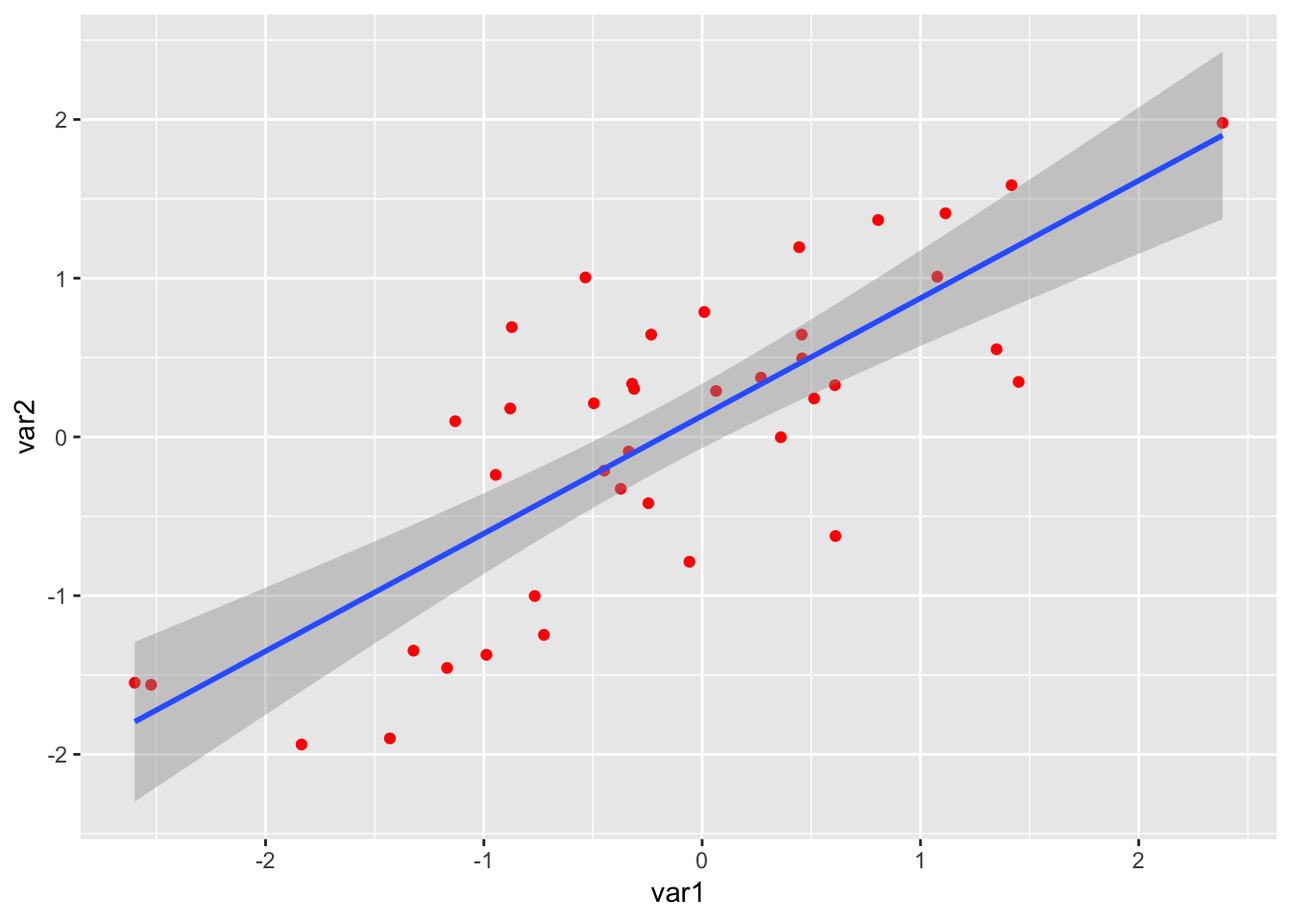
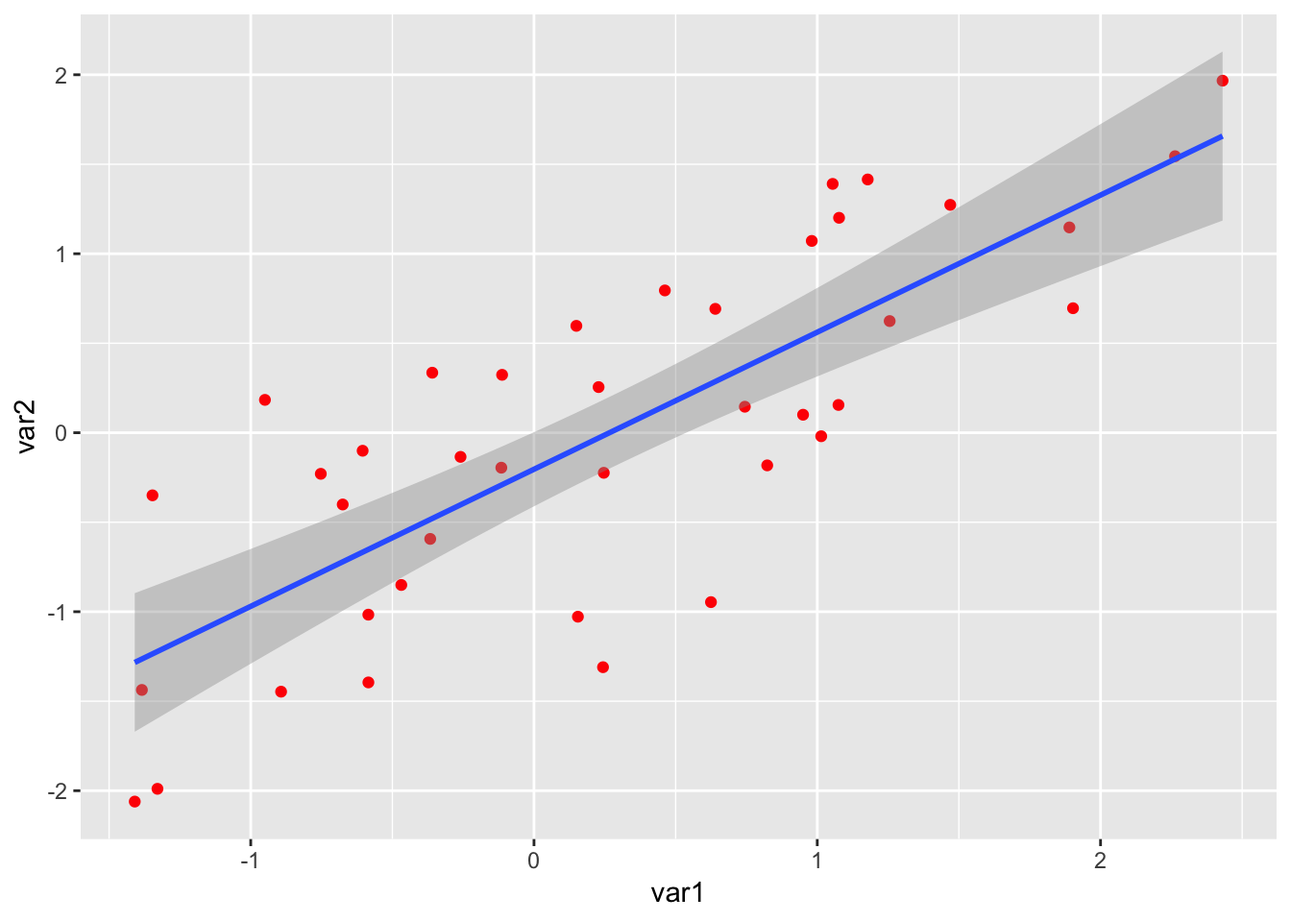
Update 28.10.19

diff --git a/10mixed.html b/10mixed.html
@@ -553,13 +553,13 @@ data_long &lt;- gather(data_short,key = &quot;face&quot;,value = &quot;rating&qu
   arrange(participant_ID,face)</code></pre>
 <div data-pagedtable="false">
 <script data-pagedtable-source type="application/json">
-{"columns":[{"label":["participant_ID"],"name":[1],"type":["int"],"align":["right"]},{"label":["face1"],"name":[2],"type":["int"],"align":["right"]},{"label":["face2"],"name":[3],"type":["int"],"align":["right"]},{"label":["face3"],"name":[4],"type":["int"],"align":["right"]},{"label":["face4"],"name":[5],"type":["int"],"align":["right"]},{"label":["face5"],"name":[6],"type":["int"],"align":["right"]},{"label":["face6"],"name":[7],"type":["int"],"align":["right"]},{"label":["face7"],"name":[8],"type":["int"],"align":["right"]},{"label":["face8"],"name":[9],"type":["int"],"align":["right"]},{"label":["face9"],"name":[10],"type":["int"],"align":["right"]}],"data":[{"1":"1","2":"1","3":"9","4":"5","5":"8","6":"1","7":"4","8":"8","9":"9","10":"8"},{"1":"2","2":"8","3":"8","4":"2","5":"1","6":"4","7":"4","8":"8","9":"9","10":"9"},{"1":"3","2":"3","3":"9","4":"9","5":"8","6":"7","7":"9","8":"4","9":"7","10":"6"},{"1":"4","2":"9","3":"7","4":"5","5":"7","6":"4","7":"2","8":"2","9":"9","10":"3"},{"1":"5","2":"4","3":"8","4":"8","5":"5","6":"8","7":"7","8":"6","9":"8","10":"6"},{"1":"6","2":"5","3":"1","4":"8","5":"7","6":"9","7":"1","8":"3","9":"9","10":"9"},{"1":"7","2":"5","3":"1","4":"9","5":"3","6":"9","7":"1","8":"6","9":"9","10":"9"},{"1":"8","2":"6","3":"4","4":"4","5":"7","6":"3","7":"8","8":"6","9":"8","10":"3"},{"1":"9","2":"8","3":"2","4":"9","5":"6","6":"4","7":"9","8":"5","9":"6","10":"9"},{"1":"10","2":"2","3":"4","4":"8","5":"8","6":"4","7":"4","8":"1","9":"2","10":"1"},{"1":"11","2":"4","3":"3","4":"5","5":"2","6":"2","7":"6","8":"4","9":"2","10":"4"},{"1":"12","2":"3","3":"9","4":"9","5":"7","6":"4","7":"2","8":"2","9":"3","10":"8"},{"1":"13","2":"3","3":"6","4":"7","5":"2","6":"5","7":"6","8":"9","9":"5","10":"4"},{"1":"14","2":"1","3":"3","4":"5","5":"1","6":"3","7":"5","8":"8","9":"3","10":"5"},{"1":"15","2":"9","3":"9","4":"9","5":"5","6":"3","7":"1","8":"6","9":"5","10":"8"},{"1":"16","2":"6","3":"1","4":"6","5":"8","6":"9","7":"6","8":"1","9":"3","10":"8"},{"1":"17","2":"4","3":"7","4":"3","5":"1","6":"6","7":"7","8":"6","9":"5","10":"8"},{"1":"18","2":"2","3":"8","4":"9","5":"2","6":"6","7":"2","8":"9","9":"4","10":"6"},{"1":"19","2":"6","3":"3","4":"9","5":"1","6":"4","7":"3","8":"4","9":"7","10":"4"},{"1":"20","2":"6","3":"4","4":"3","5":"3","6":"7","7":"8","8":"3","9":"1","10":"1"},{"1":"21","2":"7","3":"2","4":"5","5":"7","6":"3","7":"5","8":"2","9":"1","10":"3"},{"1":"22","2":"4","3":"9","4":"1","5":"2","6":"5","7":"1","8":"2","9":"7","10":"7"},{"1":"23","2":"6","3":"6","4":"5","5":"6","6":"2","7":"6","8":"5","9":"4","10":"3"},{"1":"24","2":"9","3":"7","4":"7","5":"4","6":"7","7":"5","8":"7","9":"8","10":"2"},{"1":"25","2":"6","3":"4","4":"6","5":"7","6":"2","7":"1","8":"3","9":"6","10":"3"},{"1":"26","2":"4","3":"1","4":"9","5":"9","6":"6","7":"1","8":"7","9":"3","10":"1"},{"1":"27","2":"2","3":"5","4":"4","5":"1","6":"8","7":"1","8":"2","9":"1","10":"1"},{"1":"28","2":"7","3":"7","4":"5","5":"9","6":"6","7":"3","8":"3","9":"7","10":"2"},{"1":"29","2":"3","3":"7","4":"5","5":"3","6":"9","7":"8","8":"1","9":"9","10":"6"},{"1":"30","2":"9","3":"3","4":"4","5":"4","6":"2","7":"9","8":"6","9":"3","10":"6"},{"1":"31","2":"1","3":"7","4":"5","5":"3","6":"2","7":"9","8":"4","9":"5","10":"1"},{"1":"32","2":"2","3":"8","4":"6","5":"7","6":"2","7":"6","8":"5","9":"3","10":"4"},{"1":"33","2":"3","3":"8","4":"2","5":"8","6":"6","7":"7","8":"8","9":"9","10":"7"},{"1":"34","2":"2","3":"6","4":"7","5":"1","6":"9","7":"2","8":"4","9":"1","10":"8"},{"1":"35","2":"4","3":"6","4":"1","5":"6","6":"9","7":"7","8":"6","9":"5","10":"7"},{"1":"36","2":"3","3":"3","4":"7","5":"1","6":"2","7":"2","8":"7","9":"4","10":"5"},{"1":"37","2":"3","3":"1","4":"8","5":"5","6":"7","7":"7","8":"6","9":"6","10":"5"},{"1":"38","2":"9","3":"5","4":"5","5":"6","6":"8","7":"4","8":"8","9":"2","10":"6"},{"1":"39","2":"6","3":"5","4":"7","5":"2","6":"2","7":"6","8":"1","9":"9","10":"2"},{"1":"40","2":"9","3":"3","4":"2","5":"1","6":"5","7":"3","8":"3","9":"3","10":"7"}],"options":{"columns":{"min":{},"max":[10]},"rows":{"min":[10],"max":[10]},"pages":{}}}
+{"columns":[{"label":["participant_ID"],"name":[1],"type":["int"],"align":["right"]},{"label":["face1"],"name":[2],"type":["int"],"align":["right"]},{"label":["face2"],"name":[3],"type":["int"],"align":["right"]},{"label":["face3"],"name":[4],"type":["int"],"align":["right"]},{"label":["face4"],"name":[5],"type":["int"],"align":["right"]},{"label":["face5"],"name":[6],"type":["int"],"align":["right"]},{"label":["face6"],"name":[7],"type":["int"],"align":["right"]},{"label":["face7"],"name":[8],"type":["int"],"align":["right"]},{"label":["face8"],"name":[9],"type":["int"],"align":["right"]},{"label":["face9"],"name":[10],"type":["int"],"align":["right"]}],"data":[{"1":"1","2":"5","3":"2","4":"4","5":"5","6":"3","7":"6","8":"6","9":"6","10":"7"},{"1":"2","2":"4","3":"5","4":"7","5":"5","6":"9","7":"7","8":"3","9":"8","10":"2"},{"1":"3","2":"6","3":"3","4":"6","5":"9","6":"6","7":"9","8":"4","9":"1","10":"9"},{"1":"4","2":"3","3":"3","4":"2","5":"4","6":"8","7":"5","8":"9","9":"9","10":"5"},{"1":"5","2":"1","3":"5","4":"5","5":"7","6":"9","7":"2","8":"8","9":"9","10":"3"},{"1":"6","2":"5","3":"9","4":"6","5":"2","6":"9","7":"2","8":"4","9":"2","10":"8"},{"1":"7","2":"6","3":"7","4":"5","5":"6","6":"7","7":"2","8":"6","9":"8","10":"7"},{"1":"8","2":"9","3":"4","4":"4","5":"3","6":"6","7":"8","8":"8","9":"1","10":"7"},{"1":"9","2":"4","3":"5","4":"3","5":"4","6":"8","7":"3","8":"4","9":"4","10":"3"},{"1":"10","2":"8","3":"5","4":"2","5":"9","6":"1","7":"4","8":"3","9":"7","10":"1"},{"1":"11","2":"9","3":"7","4":"9","5":"5","6":"5","7":"8","8":"9","9":"5","10":"4"},{"1":"12","2":"5","3":"5","4":"9","5":"7","6":"7","7":"6","8":"4","9":"8","10":"6"},{"1":"13","2":"5","3":"2","4":"2","5":"9","6":"5","7":"2","8":"3","9":"6","10":"2"},{"1":"14","2":"1","3":"2","4":"3","5":"3","6":"3","7":"9","8":"3","9":"6","10":"1"},{"1":"15","2":"2","3":"2","4":"5","5":"7","6":"5","7":"2","8":"1","9":"7","10":"2"},{"1":"16","2":"8","3":"9","4":"1","5":"2","6":"8","7":"5","8":"1","9":"9","10":"3"},{"1":"17","2":"1","3":"2","4":"3","5":"6","6":"8","7":"9","8":"7","9":"2","10":"2"},{"1":"18","2":"3","3":"7","4":"7","5":"4","6":"9","7":"8","8":"7","9":"9","10":"5"},{"1":"19","2":"6","3":"1","4":"7","5":"6","6":"4","7":"7","8":"7","9":"6","10":"5"},{"1":"20","2":"6","3":"3","4":"4","5":"7","6":"5","7":"1","8":"8","9":"8","10":"9"},{"1":"21","2":"5","3":"8","4":"4","5":"3","6":"7","7":"8","8":"3","9":"1","10":"4"},{"1":"22","2":"5","3":"4","4":"7","5":"8","6":"6","7":"2","8":"5","9":"6","10":"9"},{"1":"23","2":"3","3":"1","4":"6","5":"8","6":"5","7":"8","8":"6","9":"4","10":"3"},{"1":"24","2":"2","3":"3","4":"3","5":"8","6":"7","7":"8","8":"2","9":"9","10":"4"},{"1":"25","2":"7","3":"6","4":"7","5":"1","6":"3","7":"1","8":"7","9":"1","10":"8"},{"1":"26","2":"6","3":"8","4":"1","5":"2","6":"5","7":"6","8":"8","9":"5","10":"7"},{"1":"27","2":"4","3":"7","4":"7","5":"1","6":"1","7":"2","8":"5","9":"6","10":"4"},{"1":"28","2":"6","3":"6","4":"6","5":"4","6":"5","7":"7","8":"8","9":"7","10":"7"},{"1":"29","2":"2","3":"1","4":"8","5":"2","6":"5","7":"9","8":"6","9":"1","10":"2"},{"1":"30","2":"4","3":"5","4":"1","5":"4","6":"4","7":"5","8":"6","9":"7","10":"3"},{"1":"31","2":"9","3":"8","4":"5","5":"1","6":"9","7":"7","8":"1","9":"3","10":"3"},{"1":"32","2":"8","3":"2","4":"9","5":"2","6":"2","7":"3","8":"5","9":"6","10":"8"},{"1":"33","2":"8","3":"5","4":"8","5":"3","6":"9","7":"7","8":"8","9":"8","10":"7"},{"1":"34","2":"6","3":"7","4":"3","5":"5","6":"5","7":"7","8":"8","9":"9","10":"5"},{"1":"35","2":"2","3":"3","4":"9","5":"9","6":"4","7":"9","8":"7","9":"5","10":"3"},{"1":"36","2":"1","3":"3","4":"1","5":"2","6":"6","7":"1","8":"7","9":"6","10":"2"},{"1":"37","2":"9","3":"4","4":"4","5":"6","6":"4","7":"8","8":"5","9":"6","10":"2"},{"1":"38","2":"2","3":"5","4":"5","5":"2","6":"3","7":"2","8":"4","9":"2","10":"9"},{"1":"39","2":"4","3":"5","4":"2","5":"8","6":"1","7":"3","8":"1","9":"3","10":"3"},{"1":"40","2":"3","3":"4","4":"1","5":"5","6":"8","7":"3","8":"2","9":"1","10":"9"}],"options":{"columns":{"min":{},"max":[10]},"rows":{"min":[10],"max":[10]},"pages":{}}}
   </script>
 </div>
 <p>However, to conduct an mixed effects model, we require each row to represent one observation. In this instance, one observation is one rating made by one participant about one face. Therefore, data from one participant would be separated into 9 rows, (one for each rating they gave), and look something like this:</p>
 <div data-pagedtable="false">
 <script data-pagedtable-source type="application/json">
-{"columns":[{"label":["participant_ID"],"name":[1],"type":["int"],"align":["right"]},{"label":["face"],"name":[2],"type":["chr"],"align":["left"]},{"label":["rating"],"name":[3],"type":["int"],"align":["right"]}],"data":[{"1":"1","2":"face1","3":"1"},{"1":"1","2":"face2","3":"9"},{"1":"1","2":"face3","3":"5"},{"1":"1","2":"face4","3":"8"},{"1":"1","2":"face5","3":"1"},{"1":"1","2":"face6","3":"4"},{"1":"1","2":"face7","3":"8"},{"1":"1","2":"face8","3":"9"},{"1":"1","2":"face9","3":"8"},{"1":"2","2":"face1","3":"8"},{"1":"2","2":"face2","3":"8"},{"1":"2","2":"face3","3":"2"},{"1":"2","2":"face4","3":"1"},{"1":"2","2":"face5","3":"4"},{"1":"2","2":"face6","3":"4"},{"1":"2","2":"face7","3":"8"},{"1":"2","2":"face8","3":"9"},{"1":"2","2":"face9","3":"9"},{"1":"3","2":"face1","3":"3"},{"1":"3","2":"face2","3":"9"},{"1":"3","2":"face3","3":"9"},{"1":"3","2":"face4","3":"8"},{"1":"3","2":"face5","3":"7"},{"1":"3","2":"face6","3":"9"},{"1":"3","2":"face7","3":"4"},{"1":"3","2":"face8","3":"7"},{"1":"3","2":"face9","3":"6"},{"1":"4","2":"face1","3":"9"},{"1":"4","2":"face2","3":"7"},{"1":"4","2":"face3","3":"5"},{"1":"4","2":"face4","3":"7"},{"1":"4","2":"face5","3":"4"},{"1":"4","2":"face6","3":"2"},{"1":"4","2":"face7","3":"2"},{"1":"4","2":"face8","3":"9"},{"1":"4","2":"face9","3":"3"},{"1":"5","2":"face1","3":"4"},{"1":"5","2":"face2","3":"8"},{"1":"5","2":"face3","3":"8"},{"1":"5","2":"face4","3":"5"},{"1":"5","2":"face5","3":"8"},{"1":"5","2":"face6","3":"7"},{"1":"5","2":"face7","3":"6"},{"1":"5","2":"face8","3":"8"},{"1":"5","2":"face9","3":"6"},{"1":"6","2":"face1","3":"5"},{"1":"6","2":"face2","3":"1"},{"1":"6","2":"face3","3":"8"},{"1":"6","2":"face4","3":"7"},{"1":"6","2":"face5","3":"9"},{"1":"6","2":"face6","3":"1"},{"1":"6","2":"face7","3":"3"},{"1":"6","2":"face8","3":"9"},{"1":"6","2":"face9","3":"9"},{"1":"7","2":"face1","3":"5"},{"1":"7","2":"face2","3":"1"},{"1":"7","2":"face3","3":"9"},{"1":"7","2":"face4","3":"3"},{"1":"7","2":"face5","3":"9"},{"1":"7","2":"face6","3":"1"},{"1":"7","2":"face7","3":"6"},{"1":"7","2":"face8","3":"9"},{"1":"7","2":"face9","3":"9"},{"1":"8","2":"face1","3":"6"},{"1":"8","2":"face2","3":"4"},{"1":"8","2":"face3","3":"4"},{"1":"8","2":"face4","3":"7"},{"1":"8","2":"face5","3":"3"},{"1":"8","2":"face6","3":"8"},{"1":"8","2":"face7","3":"6"},{"1":"8","2":"face8","3":"8"},{"1":"8","2":"face9","3":"3"},{"1":"9","2":"face1","3":"8"},{"1":"9","2":"face2","3":"2"},{"1":"9","2":"face3","3":"9"},{"1":"9","2":"face4","3":"6"},{"1":"9","2":"face5","3":"4"},{"1":"9","2":"face6","3":"9"},{"1":"9","2":"face7","3":"5"},{"1":"9","2":"face8","3":"6"},{"1":"9","2":"face9","3":"9"},{"1":"10","2":"face1","3":"2"},{"1":"10","2":"face2","3":"4"},{"1":"10","2":"face3","3":"8"},{"1":"10","2":"face4","3":"8"},{"1":"10","2":"face5","3":"4"},{"1":"10","2":"face6","3":"4"},{"1":"10","2":"face7","3":"1"},{"1":"10","2":"face8","3":"2"},{"1":"10","2":"face9","3":"1"},{"1":"11","2":"face1","3":"4"},{"1":"11","2":"face2","3":"3"},{"1":"11","2":"face3","3":"5"},{"1":"11","2":"face4","3":"2"},{"1":"11","2":"face5","3":"2"},{"1":"11","2":"face6","3":"6"},{"1":"11","2":"face7","3":"4"},{"1":"11","2":"face8","3":"2"},{"1":"11","2":"face9","3":"4"},{"1":"12","2":"face1","3":"3"},{"1":"12","2":"face2","3":"9"},{"1":"12","2":"face3","3":"9"},{"1":"12","2":"face4","3":"7"},{"1":"12","2":"face5","3":"4"},{"1":"12","2":"face6","3":"2"},{"1":"12","2":"face7","3":"2"},{"1":"12","2":"face8","3":"3"},{"1":"12","2":"face9","3":"8"},{"1":"13","2":"face1","3":"3"},{"1":"13","2":"face2","3":"6"},{"1":"13","2":"face3","3":"7"},{"1":"13","2":"face4","3":"2"},{"1":"13","2":"face5","3":"5"},{"1":"13","2":"face6","3":"6"},{"1":"13","2":"face7","3":"9"},{"1":"13","2":"face8","3":"5"},{"1":"13","2":"face9","3":"4"},{"1":"14","2":"face1","3":"1"},{"1":"14","2":"face2","3":"3"},{"1":"14","2":"face3","3":"5"},{"1":"14","2":"face4","3":"1"},{"1":"14","2":"face5","3":"3"},{"1":"14","2":"face6","3":"5"},{"1":"14","2":"face7","3":"8"},{"1":"14","2":"face8","3":"3"},{"1":"14","2":"face9","3":"5"},{"1":"15","2":"face1","3":"9"},{"1":"15","2":"face2","3":"9"},{"1":"15","2":"face3","3":"9"},{"1":"15","2":"face4","3":"5"},{"1":"15","2":"face5","3":"3"},{"1":"15","2":"face6","3":"1"},{"1":"15","2":"face7","3":"6"},{"1":"15","2":"face8","3":"5"},{"1":"15","2":"face9","3":"8"},{"1":"16","2":"face1","3":"6"},{"1":"16","2":"face2","3":"1"},{"1":"16","2":"face3","3":"6"},{"1":"16","2":"face4","3":"8"},{"1":"16","2":"face5","3":"9"},{"1":"16","2":"face6","3":"6"},{"1":"16","2":"face7","3":"1"},{"1":"16","2":"face8","3":"3"},{"1":"16","2":"face9","3":"8"},{"1":"17","2":"face1","3":"4"},{"1":"17","2":"face2","3":"7"},{"1":"17","2":"face3","3":"3"},{"1":"17","2":"face4","3":"1"},{"1":"17","2":"face5","3":"6"},{"1":"17","2":"face6","3":"7"},{"1":"17","2":"face7","3":"6"},{"1":"17","2":"face8","3":"5"},{"1":"17","2":"face9","3":"8"},{"1":"18","2":"face1","3":"2"},{"1":"18","2":"face2","3":"8"},{"1":"18","2":"face3","3":"9"},{"1":"18","2":"face4","3":"2"},{"1":"18","2":"face5","3":"6"},{"1":"18","2":"face6","3":"2"},{"1":"18","2":"face7","3":"9"},{"1":"18","2":"face8","3":"4"},{"1":"18","2":"face9","3":"6"},{"1":"19","2":"face1","3":"6"},{"1":"19","2":"face2","3":"3"},{"1":"19","2":"face3","3":"9"},{"1":"19","2":"face4","3":"1"},{"1":"19","2":"face5","3":"4"},{"1":"19","2":"face6","3":"3"},{"1":"19","2":"face7","3":"4"},{"1":"19","2":"face8","3":"7"},{"1":"19","2":"face9","3":"4"},{"1":"20","2":"face1","3":"6"},{"1":"20","2":"face2","3":"4"},{"1":"20","2":"face3","3":"3"},{"1":"20","2":"face4","3":"3"},{"1":"20","2":"face5","3":"7"},{"1":"20","2":"face6","3":"8"},{"1":"20","2":"face7","3":"3"},{"1":"20","2":"face8","3":"1"},{"1":"20","2":"face9","3":"1"},{"1":"21","2":"face1","3":"7"},{"1":"21","2":"face2","3":"2"},{"1":"21","2":"face3","3":"5"},{"1":"21","2":"face4","3":"7"},{"1":"21","2":"face5","3":"3"},{"1":"21","2":"face6","3":"5"},{"1":"21","2":"face7","3":"2"},{"1":"21","2":"face8","3":"1"},{"1":"21","2":"face9","3":"3"},{"1":"22","2":"face1","3":"4"},{"1":"22","2":"face2","3":"9"},{"1":"22","2":"face3","3":"1"},{"1":"22","2":"face4","3":"2"},{"1":"22","2":"face5","3":"5"},{"1":"22","2":"face6","3":"1"},{"1":"22","2":"face7","3":"2"},{"1":"22","2":"face8","3":"7"},{"1":"22","2":"face9","3":"7"},{"1":"23","2":"face1","3":"6"},{"1":"23","2":"face2","3":"6"},{"1":"23","2":"face3","3":"5"},{"1":"23","2":"face4","3":"6"},{"1":"23","2":"face5","3":"2"},{"1":"23","2":"face6","3":"6"},{"1":"23","2":"face7","3":"5"},{"1":"23","2":"face8","3":"4"},{"1":"23","2":"face9","3":"3"},{"1":"24","2":"face1","3":"9"},{"1":"24","2":"face2","3":"7"},{"1":"24","2":"face3","3":"7"},{"1":"24","2":"face4","3":"4"},{"1":"24","2":"face5","3":"7"},{"1":"24","2":"face6","3":"5"},{"1":"24","2":"face7","3":"7"},{"1":"24","2":"face8","3":"8"},{"1":"24","2":"face9","3":"2"},{"1":"25","2":"face1","3":"6"},{"1":"25","2":"face2","3":"4"},{"1":"25","2":"face3","3":"6"},{"1":"25","2":"face4","3":"7"},{"1":"25","2":"face5","3":"2"},{"1":"25","2":"face6","3":"1"},{"1":"25","2":"face7","3":"3"},{"1":"25","2":"face8","3":"6"},{"1":"25","2":"face9","3":"3"},{"1":"26","2":"face1","3":"4"},{"1":"26","2":"face2","3":"1"},{"1":"26","2":"face3","3":"9"},{"1":"26","2":"face4","3":"9"},{"1":"26","2":"face5","3":"6"},{"1":"26","2":"face6","3":"1"},{"1":"26","2":"face7","3":"7"},{"1":"26","2":"face8","3":"3"},{"1":"26","2":"face9","3":"1"},{"1":"27","2":"face1","3":"2"},{"1":"27","2":"face2","3":"5"},{"1":"27","2":"face3","3":"4"},{"1":"27","2":"face4","3":"1"},{"1":"27","2":"face5","3":"8"},{"1":"27","2":"face6","3":"1"},{"1":"27","2":"face7","3":"2"},{"1":"27","2":"face8","3":"1"},{"1":"27","2":"face9","3":"1"},{"1":"28","2":"face1","3":"7"},{"1":"28","2":"face2","3":"7"},{"1":"28","2":"face3","3":"5"},{"1":"28","2":"face4","3":"9"},{"1":"28","2":"face5","3":"6"},{"1":"28","2":"face6","3":"3"},{"1":"28","2":"face7","3":"3"},{"1":"28","2":"face8","3":"7"},{"1":"28","2":"face9","3":"2"},{"1":"29","2":"face1","3":"3"},{"1":"29","2":"face2","3":"7"},{"1":"29","2":"face3","3":"5"},{"1":"29","2":"face4","3":"3"},{"1":"29","2":"face5","3":"9"},{"1":"29","2":"face6","3":"8"},{"1":"29","2":"face7","3":"1"},{"1":"29","2":"face8","3":"9"},{"1":"29","2":"face9","3":"6"},{"1":"30","2":"face1","3":"9"},{"1":"30","2":"face2","3":"3"},{"1":"30","2":"face3","3":"4"},{"1":"30","2":"face4","3":"4"},{"1":"30","2":"face5","3":"2"},{"1":"30","2":"face6","3":"9"},{"1":"30","2":"face7","3":"6"},{"1":"30","2":"face8","3":"3"},{"1":"30","2":"face9","3":"6"},{"1":"31","2":"face1","3":"1"},{"1":"31","2":"face2","3":"7"},{"1":"31","2":"face3","3":"5"},{"1":"31","2":"face4","3":"3"},{"1":"31","2":"face5","3":"2"},{"1":"31","2":"face6","3":"9"},{"1":"31","2":"face7","3":"4"},{"1":"31","2":"face8","3":"5"},{"1":"31","2":"face9","3":"1"},{"1":"32","2":"face1","3":"2"},{"1":"32","2":"face2","3":"8"},{"1":"32","2":"face3","3":"6"},{"1":"32","2":"face4","3":"7"},{"1":"32","2":"face5","3":"2"},{"1":"32","2":"face6","3":"6"},{"1":"32","2":"face7","3":"5"},{"1":"32","2":"face8","3":"3"},{"1":"32","2":"face9","3":"4"},{"1":"33","2":"face1","3":"3"},{"1":"33","2":"face2","3":"8"},{"1":"33","2":"face3","3":"2"},{"1":"33","2":"face4","3":"8"},{"1":"33","2":"face5","3":"6"},{"1":"33","2":"face6","3":"7"},{"1":"33","2":"face7","3":"8"},{"1":"33","2":"face8","3":"9"},{"1":"33","2":"face9","3":"7"},{"1":"34","2":"face1","3":"2"},{"1":"34","2":"face2","3":"6"},{"1":"34","2":"face3","3":"7"},{"1":"34","2":"face4","3":"1"},{"1":"34","2":"face5","3":"9"},{"1":"34","2":"face6","3":"2"},{"1":"34","2":"face7","3":"4"},{"1":"34","2":"face8","3":"1"},{"1":"34","2":"face9","3":"8"},{"1":"35","2":"face1","3":"4"},{"1":"35","2":"face2","3":"6"},{"1":"35","2":"face3","3":"1"},{"1":"35","2":"face4","3":"6"},{"1":"35","2":"face5","3":"9"},{"1":"35","2":"face6","3":"7"},{"1":"35","2":"face7","3":"6"},{"1":"35","2":"face8","3":"5"},{"1":"35","2":"face9","3":"7"},{"1":"36","2":"face1","3":"3"},{"1":"36","2":"face2","3":"3"},{"1":"36","2":"face3","3":"7"},{"1":"36","2":"face4","3":"1"},{"1":"36","2":"face5","3":"2"},{"1":"36","2":"face6","3":"2"},{"1":"36","2":"face7","3":"7"},{"1":"36","2":"face8","3":"4"},{"1":"36","2":"face9","3":"5"},{"1":"37","2":"face1","3":"3"},{"1":"37","2":"face2","3":"1"},{"1":"37","2":"face3","3":"8"},{"1":"37","2":"face4","3":"5"},{"1":"37","2":"face5","3":"7"},{"1":"37","2":"face6","3":"7"},{"1":"37","2":"face7","3":"6"},{"1":"37","2":"face8","3":"6"},{"1":"37","2":"face9","3":"5"},{"1":"38","2":"face1","3":"9"},{"1":"38","2":"face2","3":"5"},{"1":"38","2":"face3","3":"5"},{"1":"38","2":"face4","3":"6"},{"1":"38","2":"face5","3":"8"},{"1":"38","2":"face6","3":"4"},{"1":"38","2":"face7","3":"8"},{"1":"38","2":"face8","3":"2"},{"1":"38","2":"face9","3":"6"},{"1":"39","2":"face1","3":"6"},{"1":"39","2":"face2","3":"5"},{"1":"39","2":"face3","3":"7"},{"1":"39","2":"face4","3":"2"},{"1":"39","2":"face5","3":"2"},{"1":"39","2":"face6","3":"6"},{"1":"39","2":"face7","3":"1"},{"1":"39","2":"face8","3":"9"},{"1":"39","2":"face9","3":"2"},{"1":"40","2":"face1","3":"9"},{"1":"40","2":"face2","3":"3"},{"1":"40","2":"face3","3":"2"},{"1":"40","2":"face4","3":"1"},{"1":"40","2":"face5","3":"5"},{"1":"40","2":"face6","3":"3"},{"1":"40","2":"face7","3":"3"},{"1":"40","2":"face8","3":"3"},{"1":"40","2":"face9","3":"7"}],"options":{"columns":{"min":{},"max":[10]},"rows":{"min":[10],"max":[10]},"pages":{}}}
+{"columns":[{"label":["participant_ID"],"name":[1],"type":["int"],"align":["right"]},{"label":["face"],"name":[2],"type":["chr"],"align":["left"]},{"label":["rating"],"name":[3],"type":["int"],"align":["right"]}],"data":[{"1":"1","2":"face1","3":"5"},{"1":"1","2":"face2","3":"2"},{"1":"1","2":"face3","3":"4"},{"1":"1","2":"face4","3":"5"},{"1":"1","2":"face5","3":"3"},{"1":"1","2":"face6","3":"6"},{"1":"1","2":"face7","3":"6"},{"1":"1","2":"face8","3":"6"},{"1":"1","2":"face9","3":"7"},{"1":"2","2":"face1","3":"4"},{"1":"2","2":"face2","3":"5"},{"1":"2","2":"face3","3":"7"},{"1":"2","2":"face4","3":"5"},{"1":"2","2":"face5","3":"9"},{"1":"2","2":"face6","3":"7"},{"1":"2","2":"face7","3":"3"},{"1":"2","2":"face8","3":"8"},{"1":"2","2":"face9","3":"2"},{"1":"3","2":"face1","3":"6"},{"1":"3","2":"face2","3":"3"},{"1":"3","2":"face3","3":"6"},{"1":"3","2":"face4","3":"9"},{"1":"3","2":"face5","3":"6"},{"1":"3","2":"face6","3":"9"},{"1":"3","2":"face7","3":"4"},{"1":"3","2":"face8","3":"1"},{"1":"3","2":"face9","3":"9"},{"1":"4","2":"face1","3":"3"},{"1":"4","2":"face2","3":"3"},{"1":"4","2":"face3","3":"2"},{"1":"4","2":"face4","3":"4"},{"1":"4","2":"face5","3":"8"},{"1":"4","2":"face6","3":"5"},{"1":"4","2":"face7","3":"9"},{"1":"4","2":"face8","3":"9"},{"1":"4","2":"face9","3":"5"},{"1":"5","2":"face1","3":"1"},{"1":"5","2":"face2","3":"5"},{"1":"5","2":"face3","3":"5"},{"1":"5","2":"face4","3":"7"},{"1":"5","2":"face5","3":"9"},{"1":"5","2":"face6","3":"2"},{"1":"5","2":"face7","3":"8"},{"1":"5","2":"face8","3":"9"},{"1":"5","2":"face9","3":"3"},{"1":"6","2":"face1","3":"5"},{"1":"6","2":"face2","3":"9"},{"1":"6","2":"face3","3":"6"},{"1":"6","2":"face4","3":"2"},{"1":"6","2":"face5","3":"9"},{"1":"6","2":"face6","3":"2"},{"1":"6","2":"face7","3":"4"},{"1":"6","2":"face8","3":"2"},{"1":"6","2":"face9","3":"8"},{"1":"7","2":"face1","3":"6"},{"1":"7","2":"face2","3":"7"},{"1":"7","2":"face3","3":"5"},{"1":"7","2":"face4","3":"6"},{"1":"7","2":"face5","3":"7"},{"1":"7","2":"face6","3":"2"},{"1":"7","2":"face7","3":"6"},{"1":"7","2":"face8","3":"8"},{"1":"7","2":"face9","3":"7"},{"1":"8","2":"face1","3":"9"},{"1":"8","2":"face2","3":"4"},{"1":"8","2":"face3","3":"4"},{"1":"8","2":"face4","3":"3"},{"1":"8","2":"face5","3":"6"},{"1":"8","2":"face6","3":"8"},{"1":"8","2":"face7","3":"8"},{"1":"8","2":"face8","3":"1"},{"1":"8","2":"face9","3":"7"},{"1":"9","2":"face1","3":"4"},{"1":"9","2":"face2","3":"5"},{"1":"9","2":"face3","3":"3"},{"1":"9","2":"face4","3":"4"},{"1":"9","2":"face5","3":"8"},{"1":"9","2":"face6","3":"3"},{"1":"9","2":"face7","3":"4"},{"1":"9","2":"face8","3":"4"},{"1":"9","2":"face9","3":"3"},{"1":"10","2":"face1","3":"8"},{"1":"10","2":"face2","3":"5"},{"1":"10","2":"face3","3":"2"},{"1":"10","2":"face4","3":"9"},{"1":"10","2":"face5","3":"1"},{"1":"10","2":"face6","3":"4"},{"1":"10","2":"face7","3":"3"},{"1":"10","2":"face8","3":"7"},{"1":"10","2":"face9","3":"1"},{"1":"11","2":"face1","3":"9"},{"1":"11","2":"face2","3":"7"},{"1":"11","2":"face3","3":"9"},{"1":"11","2":"face4","3":"5"},{"1":"11","2":"face5","3":"5"},{"1":"11","2":"face6","3":"8"},{"1":"11","2":"face7","3":"9"},{"1":"11","2":"face8","3":"5"},{"1":"11","2":"face9","3":"4"},{"1":"12","2":"face1","3":"5"},{"1":"12","2":"face2","3":"5"},{"1":"12","2":"face3","3":"9"},{"1":"12","2":"face4","3":"7"},{"1":"12","2":"face5","3":"7"},{"1":"12","2":"face6","3":"6"},{"1":"12","2":"face7","3":"4"},{"1":"12","2":"face8","3":"8"},{"1":"12","2":"face9","3":"6"},{"1":"13","2":"face1","3":"5"},{"1":"13","2":"face2","3":"2"},{"1":"13","2":"face3","3":"2"},{"1":"13","2":"face4","3":"9"},{"1":"13","2":"face5","3":"5"},{"1":"13","2":"face6","3":"2"},{"1":"13","2":"face7","3":"3"},{"1":"13","2":"face8","3":"6"},{"1":"13","2":"face9","3":"2"},{"1":"14","2":"face1","3":"1"},{"1":"14","2":"face2","3":"2"},{"1":"14","2":"face3","3":"3"},{"1":"14","2":"face4","3":"3"},{"1":"14","2":"face5","3":"3"},{"1":"14","2":"face6","3":"9"},{"1":"14","2":"face7","3":"3"},{"1":"14","2":"face8","3":"6"},{"1":"14","2":"face9","3":"1"},{"1":"15","2":"face1","3":"2"},{"1":"15","2":"face2","3":"2"},{"1":"15","2":"face3","3":"5"},{"1":"15","2":"face4","3":"7"},{"1":"15","2":"face5","3":"5"},{"1":"15","2":"face6","3":"2"},{"1":"15","2":"face7","3":"1"},{"1":"15","2":"face8","3":"7"},{"1":"15","2":"face9","3":"2"},{"1":"16","2":"face1","3":"8"},{"1":"16","2":"face2","3":"9"},{"1":"16","2":"face3","3":"1"},{"1":"16","2":"face4","3":"2"},{"1":"16","2":"face5","3":"8"},{"1":"16","2":"face6","3":"5"},{"1":"16","2":"face7","3":"1"},{"1":"16","2":"face8","3":"9"},{"1":"16","2":"face9","3":"3"},{"1":"17","2":"face1","3":"1"},{"1":"17","2":"face2","3":"2"},{"1":"17","2":"face3","3":"3"},{"1":"17","2":"face4","3":"6"},{"1":"17","2":"face5","3":"8"},{"1":"17","2":"face6","3":"9"},{"1":"17","2":"face7","3":"7"},{"1":"17","2":"face8","3":"2"},{"1":"17","2":"face9","3":"2"},{"1":"18","2":"face1","3":"3"},{"1":"18","2":"face2","3":"7"},{"1":"18","2":"face3","3":"7"},{"1":"18","2":"face4","3":"4"},{"1":"18","2":"face5","3":"9"},{"1":"18","2":"face6","3":"8"},{"1":"18","2":"face7","3":"7"},{"1":"18","2":"face8","3":"9"},{"1":"18","2":"face9","3":"5"},{"1":"19","2":"face1","3":"6"},{"1":"19","2":"face2","3":"1"},{"1":"19","2":"face3","3":"7"},{"1":"19","2":"face4","3":"6"},{"1":"19","2":"face5","3":"4"},{"1":"19","2":"face6","3":"7"},{"1":"19","2":"face7","3":"7"},{"1":"19","2":"face8","3":"6"},{"1":"19","2":"face9","3":"5"},{"1":"20","2":"face1","3":"6"},{"1":"20","2":"face2","3":"3"},{"1":"20","2":"face3","3":"4"},{"1":"20","2":"face4","3":"7"},{"1":"20","2":"face5","3":"5"},{"1":"20","2":"face6","3":"1"},{"1":"20","2":"face7","3":"8"},{"1":"20","2":"face8","3":"8"},{"1":"20","2":"face9","3":"9"},{"1":"21","2":"face1","3":"5"},{"1":"21","2":"face2","3":"8"},{"1":"21","2":"face3","3":"4"},{"1":"21","2":"face4","3":"3"},{"1":"21","2":"face5","3":"7"},{"1":"21","2":"face6","3":"8"},{"1":"21","2":"face7","3":"3"},{"1":"21","2":"face8","3":"1"},{"1":"21","2":"face9","3":"4"},{"1":"22","2":"face1","3":"5"},{"1":"22","2":"face2","3":"4"},{"1":"22","2":"face3","3":"7"},{"1":"22","2":"face4","3":"8"},{"1":"22","2":"face5","3":"6"},{"1":"22","2":"face6","3":"2"},{"1":"22","2":"face7","3":"5"},{"1":"22","2":"face8","3":"6"},{"1":"22","2":"face9","3":"9"},{"1":"23","2":"face1","3":"3"},{"1":"23","2":"face2","3":"1"},{"1":"23","2":"face3","3":"6"},{"1":"23","2":"face4","3":"8"},{"1":"23","2":"face5","3":"5"},{"1":"23","2":"face6","3":"8"},{"1":"23","2":"face7","3":"6"},{"1":"23","2":"face8","3":"4"},{"1":"23","2":"face9","3":"3"},{"1":"24","2":"face1","3":"2"},{"1":"24","2":"face2","3":"3"},{"1":"24","2":"face3","3":"3"},{"1":"24","2":"face4","3":"8"},{"1":"24","2":"face5","3":"7"},{"1":"24","2":"face6","3":"8"},{"1":"24","2":"face7","3":"2"},{"1":"24","2":"face8","3":"9"},{"1":"24","2":"face9","3":"4"},{"1":"25","2":"face1","3":"7"},{"1":"25","2":"face2","3":"6"},{"1":"25","2":"face3","3":"7"},{"1":"25","2":"face4","3":"1"},{"1":"25","2":"face5","3":"3"},{"1":"25","2":"face6","3":"1"},{"1":"25","2":"face7","3":"7"},{"1":"25","2":"face8","3":"1"},{"1":"25","2":"face9","3":"8"},{"1":"26","2":"face1","3":"6"},{"1":"26","2":"face2","3":"8"},{"1":"26","2":"face3","3":"1"},{"1":"26","2":"face4","3":"2"},{"1":"26","2":"face5","3":"5"},{"1":"26","2":"face6","3":"6"},{"1":"26","2":"face7","3":"8"},{"1":"26","2":"face8","3":"5"},{"1":"26","2":"face9","3":"7"},{"1":"27","2":"face1","3":"4"},{"1":"27","2":"face2","3":"7"},{"1":"27","2":"face3","3":"7"},{"1":"27","2":"face4","3":"1"},{"1":"27","2":"face5","3":"1"},{"1":"27","2":"face6","3":"2"},{"1":"27","2":"face7","3":"5"},{"1":"27","2":"face8","3":"6"},{"1":"27","2":"face9","3":"4"},{"1":"28","2":"face1","3":"6"},{"1":"28","2":"face2","3":"6"},{"1":"28","2":"face3","3":"6"},{"1":"28","2":"face4","3":"4"},{"1":"28","2":"face5","3":"5"},{"1":"28","2":"face6","3":"7"},{"1":"28","2":"face7","3":"8"},{"1":"28","2":"face8","3":"7"},{"1":"28","2":"face9","3":"7"},{"1":"29","2":"face1","3":"2"},{"1":"29","2":"face2","3":"1"},{"1":"29","2":"face3","3":"8"},{"1":"29","2":"face4","3":"2"},{"1":"29","2":"face5","3":"5"},{"1":"29","2":"face6","3":"9"},{"1":"29","2":"face7","3":"6"},{"1":"29","2":"face8","3":"1"},{"1":"29","2":"face9","3":"2"},{"1":"30","2":"face1","3":"4"},{"1":"30","2":"face2","3":"5"},{"1":"30","2":"face3","3":"1"},{"1":"30","2":"face4","3":"4"},{"1":"30","2":"face5","3":"4"},{"1":"30","2":"face6","3":"5"},{"1":"30","2":"face7","3":"6"},{"1":"30","2":"face8","3":"7"},{"1":"30","2":"face9","3":"3"},{"1":"31","2":"face1","3":"9"},{"1":"31","2":"face2","3":"8"},{"1":"31","2":"face3","3":"5"},{"1":"31","2":"face4","3":"1"},{"1":"31","2":"face5","3":"9"},{"1":"31","2":"face6","3":"7"},{"1":"31","2":"face7","3":"1"},{"1":"31","2":"face8","3":"3"},{"1":"31","2":"face9","3":"3"},{"1":"32","2":"face1","3":"8"},{"1":"32","2":"face2","3":"2"},{"1":"32","2":"face3","3":"9"},{"1":"32","2":"face4","3":"2"},{"1":"32","2":"face5","3":"2"},{"1":"32","2":"face6","3":"3"},{"1":"32","2":"face7","3":"5"},{"1":"32","2":"face8","3":"6"},{"1":"32","2":"face9","3":"8"},{"1":"33","2":"face1","3":"8"},{"1":"33","2":"face2","3":"5"},{"1":"33","2":"face3","3":"8"},{"1":"33","2":"face4","3":"3"},{"1":"33","2":"face5","3":"9"},{"1":"33","2":"face6","3":"7"},{"1":"33","2":"face7","3":"8"},{"1":"33","2":"face8","3":"8"},{"1":"33","2":"face9","3":"7"},{"1":"34","2":"face1","3":"6"},{"1":"34","2":"face2","3":"7"},{"1":"34","2":"face3","3":"3"},{"1":"34","2":"face4","3":"5"},{"1":"34","2":"face5","3":"5"},{"1":"34","2":"face6","3":"7"},{"1":"34","2":"face7","3":"8"},{"1":"34","2":"face8","3":"9"},{"1":"34","2":"face9","3":"5"},{"1":"35","2":"face1","3":"2"},{"1":"35","2":"face2","3":"3"},{"1":"35","2":"face3","3":"9"},{"1":"35","2":"face4","3":"9"},{"1":"35","2":"face5","3":"4"},{"1":"35","2":"face6","3":"9"},{"1":"35","2":"face7","3":"7"},{"1":"35","2":"face8","3":"5"},{"1":"35","2":"face9","3":"3"},{"1":"36","2":"face1","3":"1"},{"1":"36","2":"face2","3":"3"},{"1":"36","2":"face3","3":"1"},{"1":"36","2":"face4","3":"2"},{"1":"36","2":"face5","3":"6"},{"1":"36","2":"face6","3":"1"},{"1":"36","2":"face7","3":"7"},{"1":"36","2":"face8","3":"6"},{"1":"36","2":"face9","3":"2"},{"1":"37","2":"face1","3":"9"},{"1":"37","2":"face2","3":"4"},{"1":"37","2":"face3","3":"4"},{"1":"37","2":"face4","3":"6"},{"1":"37","2":"face5","3":"4"},{"1":"37","2":"face6","3":"8"},{"1":"37","2":"face7","3":"5"},{"1":"37","2":"face8","3":"6"},{"1":"37","2":"face9","3":"2"},{"1":"38","2":"face1","3":"2"},{"1":"38","2":"face2","3":"5"},{"1":"38","2":"face3","3":"5"},{"1":"38","2":"face4","3":"2"},{"1":"38","2":"face5","3":"3"},{"1":"38","2":"face6","3":"2"},{"1":"38","2":"face7","3":"4"},{"1":"38","2":"face8","3":"2"},{"1":"38","2":"face9","3":"9"},{"1":"39","2":"face1","3":"4"},{"1":"39","2":"face2","3":"5"},{"1":"39","2":"face3","3":"2"},{"1":"39","2":"face4","3":"8"},{"1":"39","2":"face5","3":"1"},{"1":"39","2":"face6","3":"3"},{"1":"39","2":"face7","3":"1"},{"1":"39","2":"face8","3":"3"},{"1":"39","2":"face9","3":"3"},{"1":"40","2":"face1","3":"3"},{"1":"40","2":"face2","3":"4"},{"1":"40","2":"face3","3":"1"},{"1":"40","2":"face4","3":"5"},{"1":"40","2":"face5","3":"8"},{"1":"40","2":"face6","3":"3"},{"1":"40","2":"face7","3":"2"},{"1":"40","2":"face8","3":"1"},{"1":"40","2":"face9","3":"9"}],"options":{"columns":{"min":{},"max":[10]},"rows":{"min":[10],"max":[10]},"pages":{}}}
   </script>
 </div>
 <p>In the examples above, we would call the format of the first data.frame the “short-form”, while the format for the second is “long-form”. To convert a dataframe from short-form to long-form and vice versa, we use the <code>gather()</code> and <code>spread()</code> functions respectively.</p>

diff --git a/1intro.html b/1intro.html
@@ -521,16 +521,16 @@ div.tocify {
 <pre><code>## [1] 2</code></pre>
 <p>Some functions can do quite complicated things. For example, the function <code>rnorm()</code> generates random numbers from the standard normal distribution. This function takes three arguments, where n is the number of randomly generated numbers you want, mean is the mean of the distribution, and sd is the standard deviation. The default mean is 0, and the default standard deviation is 1. So if you want to randomly generate 10 numbers, you can run this code:</p>
 <pre class="r"><code>rnorm(n = 10,mean = 0,sd = 1)</code></pre>
-<pre><code>##  [1] -0.29296254  0.22045452 -0.70992309  2.05881411 -0.05663586
-##  [6] -1.21136049 -0.00758604  0.48888116 -1.81634597 -1.14241375</code></pre>
+<pre><code>##  [1] -1.2480449 -0.2504998  0.3825938 -0.7747197 -0.3770258  0.5869624
+##  [7]  0.7872792  1.0446188  0.6341240 -0.7653652</code></pre>
 <p>As mentioned above, some arguments have default values, in which case you do not have to specify them. The code below does the same as above, but we do not have to name all the arguments because the defaults for mean and sd are 0 and 1 respectively. It is necessary to provide a value for n, as there is no default.</p>
 <pre class="r"><code>rnorm(n = 10)</code></pre>
-<pre><code>##  [1]  0.1098529  0.9159331 -2.0080246  0.5591959 -1.9912095  0.4247727
-##  [7] -1.3900587  3.1432614  0.4882682  0.8395180</code></pre>
+<pre><code>##  [1] -1.382367022  1.159529794 -0.343187375 -0.757372532 -1.115855560
+##  [6]  0.290516762 -0.637963235  0.030392009 -0.009394201  0.506434611</code></pre>
 <p>If you want to be even more efficient, if you specify your arguments in the order listed for the function, you don’t have to even name them. For example, the code below does the same thing as the two lines above, but since we are specifying the arguments in the specific order, we don’t have to name them.</p>
 <pre class="r"><code>rnorm(10,0,1)</code></pre>
-<pre><code>##  [1] -0.4566973 -0.4949214 -0.9717583 -0.2438735 -1.9197276 -1.2651735
-##  [7]  0.2277006  0.5391482  0.5943740  0.4993725</code></pre>
+<pre><code>##  [1]  0.5523454 -0.5908587  0.3833562 -0.3605594 -0.2392903 -0.7738822
+##  [7]  0.6492214  0.3650065  0.6928065 -0.5407059</code></pre>
 <p>If you have trouble remembering the arguments a particular function takes, you can hover your mouse over the function.</p>
 <p>Base R comes with a lot of in-built functions, but one of the great things about R is that there is a large community writing functions and including them in packages for free. Packages are like add-ons that can expand the number of functions you can use in R. We will be covering more about packages next week.</p>
 </div>
@@ -620,7 +620,7 @@ v * 3</code></pre>
 <pre class="r"><code>data</code></pre>
 <div data-pagedtable="false">
 <script data-pagedtable-source type="application/json">
-{"columns":[{"label":["ID"],"name":[1],"type":["int"],"align":["right"]},{"label":["age"],"name":[2],"type":["dbl"],"align":["right"]},{"label":["sex"],"name":[3],"type":["fctr"],"align":["left"]},{"label":["var1"],"name":[4],"type":["dbl"],"align":["right"]},{"label":["var2"],"name":[5],"type":["dbl"],"align":["right"]},{"label":["var3"],"name":[6],"type":["dbl"],"align":["right"]}],"data":[{"1":"1","2":"19","3":"female","4":"-0.82","5":"-0.18","6":"0.97"},{"1":"2","2":"22","3":"male","4":"0.90","5":"0.60","6":"1.61"},{"1":"3","2":"21","3":"female","4":"0.81","5":"0.04","6":"-0.32"},{"1":"4","2":"21","3":"female","4":"0.39","5":"-0.32","6":"0.17"},{"1":"5","2":"22","3":"female","4":"-0.75","5":"0.79","6":"2.61"},{"1":"6","2":"30","3":"female","4":"0.66","5":"0.06","6":"-1.16"},{"1":"7","2":"20","3":"male","4":"1.23","5":"0.80","6":"-0.17"},{"1":"8","2":"22","3":"male","4":"0.40","5":"2.33","6":"1.87"},{"1":"9","2":"19","3":"male","4":"0.11","5":"0.76","6":"0.32"},{"1":"10","2":"25","3":"female","4":"0.29","5":"-0.10","6":"-1.85"},{"1":"11","2":"22","3":"male","4":"1.25","5":"-0.24","6":"-1.06"},{"1":"12","2":"31","3":"female","4":"-0.33","5":"-0.18","6":"-0.94"},{"1":"13","2":"21","3":"female","4":"-0.66","5":"0.24","6":"0.08"},{"1":"14","2":"32","3":"female","4":"1.02","5":"0.35","6":"-0.58"},{"1":"15","2":"25","3":"female","4":"0.51","5":"0.04","6":"0.97"},{"1":"16","2":"34","3":"male","4":"0.67","5":"-0.15","6":"0.14"},{"1":"17","2":"21","3":"male","4":"0.72","5":"0.10","6":"-1.34"},{"1":"18","2":"18","3":"male","4":"-0.40","5":"-0.48","6":"-0.44"},{"1":"19","2":"20","3":"female","4":"0.17","5":"1.76","6":"0.61"},{"1":"20","2":"23","3":"female","4":"0.80","5":"-0.72","6":"1.36"},{"1":"21","2":"20","3":"female","4":"3.39","5":"-1.93","6":"-0.39"},{"1":"22","2":"20","3":"female","4":"1.14","5":"-0.89","6":"-0.86"},{"1":"23","2":"22","3":"male","4":"0.04","5":"0.14","6":"-0.24"},{"1":"24","2":"19","3":"female","4":"0.21","5":"0.77","6":"-0.25"},{"1":"25","2":"19","3":"female","4":"-0.85","5":"0.33","6":"-1.17"},{"1":"26","2":"22","3":"male","4":"-1.11","5":"-0.24","6":"-0.29"},{"1":"27","2":"24","3":"male","4":"-1.46","5":"-1.62","6":"-1.21"},{"1":"28","2":"30","3":"female","4":"-1.21","5":"-0.11","6":"0.20"},{"1":"29","2":"21","3":"male","4":"-0.86","5":"-0.79","6":"1.09"},{"1":"30","2":"20","3":"female","4":"-0.01","5":"-1.13","6":"-1.57"},{"1":"31","2":"29","3":"male","4":"-0.30","5":"0.02","6":"-0.97"},{"1":"32","2":"22","3":"female","4":"1.75","5":"-2.17","6":"0.67"},{"1":"33","2":"32","3":"female","4":"0.75","5":"-0.12","6":"0.66"},{"1":"34","2":"20","3":"male","4":"1.82","5":"-1.45","6":"0.82"},{"1":"35","2":"18","3":"male","4":"-0.51","5":"-0.82","6":"0.75"},{"1":"36","2":"24","3":"male","4":"-0.09","5":"-0.61","6":"1.79"},{"1":"37","2":"29","3":"female","4":"-0.28","5":"-0.64","6":"1.10"},{"1":"38","2":"20","3":"male","4":"-2.17","5":"0.01","6":"1.78"},{"1":"39","2":"23","3":"female","4":"1.29","5":"0.04","6":"-0.36"},{"1":"40","2":"19","3":"male","4":"0.12","5":"-0.20","6":"-1.05"}],"options":{"columns":{"min":{},"max":[10]},"rows":{"min":[10],"max":[10]},"pages":{}}}
+{"columns":[{"label":["ID"],"name":[1],"type":["int"],"align":["right"]},{"label":["age"],"name":[2],"type":["dbl"],"align":["right"]},{"label":["sex"],"name":[3],"type":["fctr"],"align":["left"]},{"label":["var1"],"name":[4],"type":["dbl"],"align":["right"]},{"label":["var2"],"name":[5],"type":["dbl"],"align":["right"]},{"label":["var3"],"name":[6],"type":["dbl"],"align":["right"]}],"data":[{"1":"1","2":"19","3":"female","4":"-0.02","5":"0.78","6":"-0.46"},{"1":"2","2":"22","3":"male","4":"0.07","5":"1.71","6":"0.84"},{"1":"3","2":"24","3":"female","4":"-0.03","5":"-0.40","6":"-2.26"},{"1":"4","2":"19","3":"female","4":"-0.35","5":"-0.31","6":"-1.51"},{"1":"5","2":"28","3":"female","4":"-1.41","5":"1.26","6":"-2.04"},{"1":"6","2":"18","3":"male","4":"1.02","5":"-0.15","6":"-1.31"},{"1":"7","2":"21","3":"female","4":"-0.90","5":"2.23","6":"-1.42"},{"1":"8","2":"25","3":"female","4":"-0.91","5":"1.30","6":"-0.01"},{"1":"9","2":"20","3":"female","4":"-0.65","5":"-1.21","6":"1.11"},{"1":"10","2":"18","3":"female","4":"1.52","5":"-0.73","6":"-3.03"},{"1":"11","2":"18","3":"female","4":"1.88","5":"-1.09","6":"-2.32"},{"1":"12","2":"20","3":"female","4":"0.68","5":"-3.06","6":"-1.12"},{"1":"13","2":"21","3":"male","4":"0.78","5":"0.18","6":"-0.58"},{"1":"14","2":"20","3":"male","4":"1.80","5":"0.98","6":"-1.85"},{"1":"15","2":"26","3":"female","4":"0.17","5":"0.45","6":"-2.19"},{"1":"16","2":"19","3":"female","4":"-0.33","5":"-0.33","6":"-0.23"},{"1":"17","2":"27","3":"female","4":"-0.52","5":"0.11","6":"0.18"},{"1":"18","2":"18","3":"male","4":"-1.16","5":"0.18","6":"0.11"},{"1":"19","2":"20","3":"female","4":"0.13","5":"-0.32","6":"-1.62"},{"1":"20","2":"19","3":"female","4":"0.22","5":"-0.63","6":"-1.50"},{"1":"21","2":"21","3":"male","4":"0.06","5":"-0.97","6":"0.88"},{"1":"22","2":"21","3":"male","4":"-0.25","5":"1.64","6":"1.95"},{"1":"23","2":"18","3":"female","4":"-0.99","5":"1.85","6":"1.11"},{"1":"24","2":"22","3":"male","4":"-0.59","5":"-1.59","6":"-1.08"},{"1":"25","2":"22","3":"female","4":"0.75","5":"1.51","6":"-2.41"},{"1":"26","2":"20","3":"male","4":"-1.38","5":"0.61","6":"0.04"},{"1":"27","2":"32","3":"male","4":"-0.20","5":"-1.26","6":"1.82"},{"1":"28","2":"18","3":"female","4":"0.98","5":"0.02","6":"-0.57"},{"1":"29","2":"21","3":"male","4":"0.05","5":"1.67","6":"0.12"},{"1":"30","2":"29","3":"male","4":"0.17","5":"1.21","6":"1.05"},{"1":"31","2":"27","3":"male","4":"0.86","5":"0.28","6":"-0.26"},{"1":"32","2":"28","3":"male","4":"-0.39","5":"0.42","6":"0.40"},{"1":"33","2":"22","3":"female","4":"0.89","5":"0.39","6":"1.76"},{"1":"34","2":"19","3":"male","4":"0.33","5":"-0.44","6":"-0.88"},{"1":"35","2":"33","3":"female","4":"0.37","5":"-1.36","6":"-1.94"},{"1":"36","2":"30","3":"male","4":"-0.77","5":"0.01","6":"-0.05"},{"1":"37","2":"30","3":"male","4":"-0.84","5":"-0.92","6":"-0.11"},{"1":"38","2":"20","3":"female","4":"0.41","5":"0.06","6":"1.14"},{"1":"39","2":"34","3":"male","4":"0.20","5":"-0.78","6":"0.41"},{"1":"40","2":"18","3":"male","4":"-0.52","5":"0.83","6":"-0.52"}],"options":{"columns":{"min":{},"max":[10]},"rows":{"min":[10],"max":[10]},"pages":{}}}
   </script>
 </div>
 <p>Typically in psychological research, how to read a data table is that each participant is represents a separate row, while different variables that participants can vary on our represented by separate columns (including ID, age, sex, and three other random variables).</p>

diff --git a/index.html b/index.html
@@ -426,7 +426,7 @@ div.tocify {
 
 
 <p>NOTE: Content may be updated throughout the semester based on student feedback.</p>
-<p>Last updated: Fri Oct 25 16:15:21 2019</p>
+<p>Last updated: Mon Oct 28 13:52:30 2019</p>
 <p>This module is designed to teach students the basic skills needed to conduct quantitative research in R. This module covers basic data skills, data tidying, plotting data, and analysing datasets in R. This is not meant to be a comprehensive guide to R (such a thing would be almost impossible!). Rather, this module is designed to be a gentle introduction to R, cover statistical techniques that are common in psychological research, and provide a solid base where you can investigate advanced techniques on your own. This website contains weekly workbooks designed to reinforce materials presented in lectures and demonstrations. Weekly exercises are also provided that are designed for you to practice your R skills, and introduce new concepts for students looking for an additional challenge.</p>
 <div id="syllabus" class="section level1">
 <h1>Syllabus</h1>

diff --git a/5LM2.html b/5LM2.html
@@ -525,7 +525,7 @@ library(lm.beta)</code></pre>
 </div>
 <div id="regression-with-one-predictor" class="section level2">
 <h2>Regression with One Predictor</h2>
-<p>When running a regression with one predictor (i.e., one IV), this is identical to running a correlation. For demonstrative purposes, we are going to run the same analysis above, except using a regression function. See the results from the regression below and compare it to the results from the correlation above.</p>
+<p>When running a regression with one predictor (i.e., one IV), it is usually easier to run a correlation. However, for demonstrative purposes, we are going to run the same analysis above, except using a regression function. See the results from the regression below and compare it to the results from the correlation above.</p>
 <div id="clean-the-data-for-analysis.-1" class="section level3">
 <h3>1. Clean the data for analysis.</h3>
 <p>This code is identical to the code above.</p>

diff --git a/2data.html b/2data.html
@@ -636,6 +636,7 @@ prime.numbers.na &lt;- c(1,NA,3,5,7,NA,17,NA,53)</code></pre>
 ##   stats_exp.mean stats_exp.sd stats_anx.mean stats_anx.sd
 ##            &lt;dbl&gt;        &lt;dbl&gt;          &lt;dbl&gt;        &lt;dbl&gt;
 ## 1              4         2.17           5.58         2.15</code></pre>
+<p>Note: An annoying thing about the summarise function is that sometimes it will not show results to two-decimal places (which is the requirement for APA format). To see all the decimal places, you can <code>View()</code> the data.frame produced by the <code>summarise()</code> function.</p>
 </div>
 </div>
 </div>
